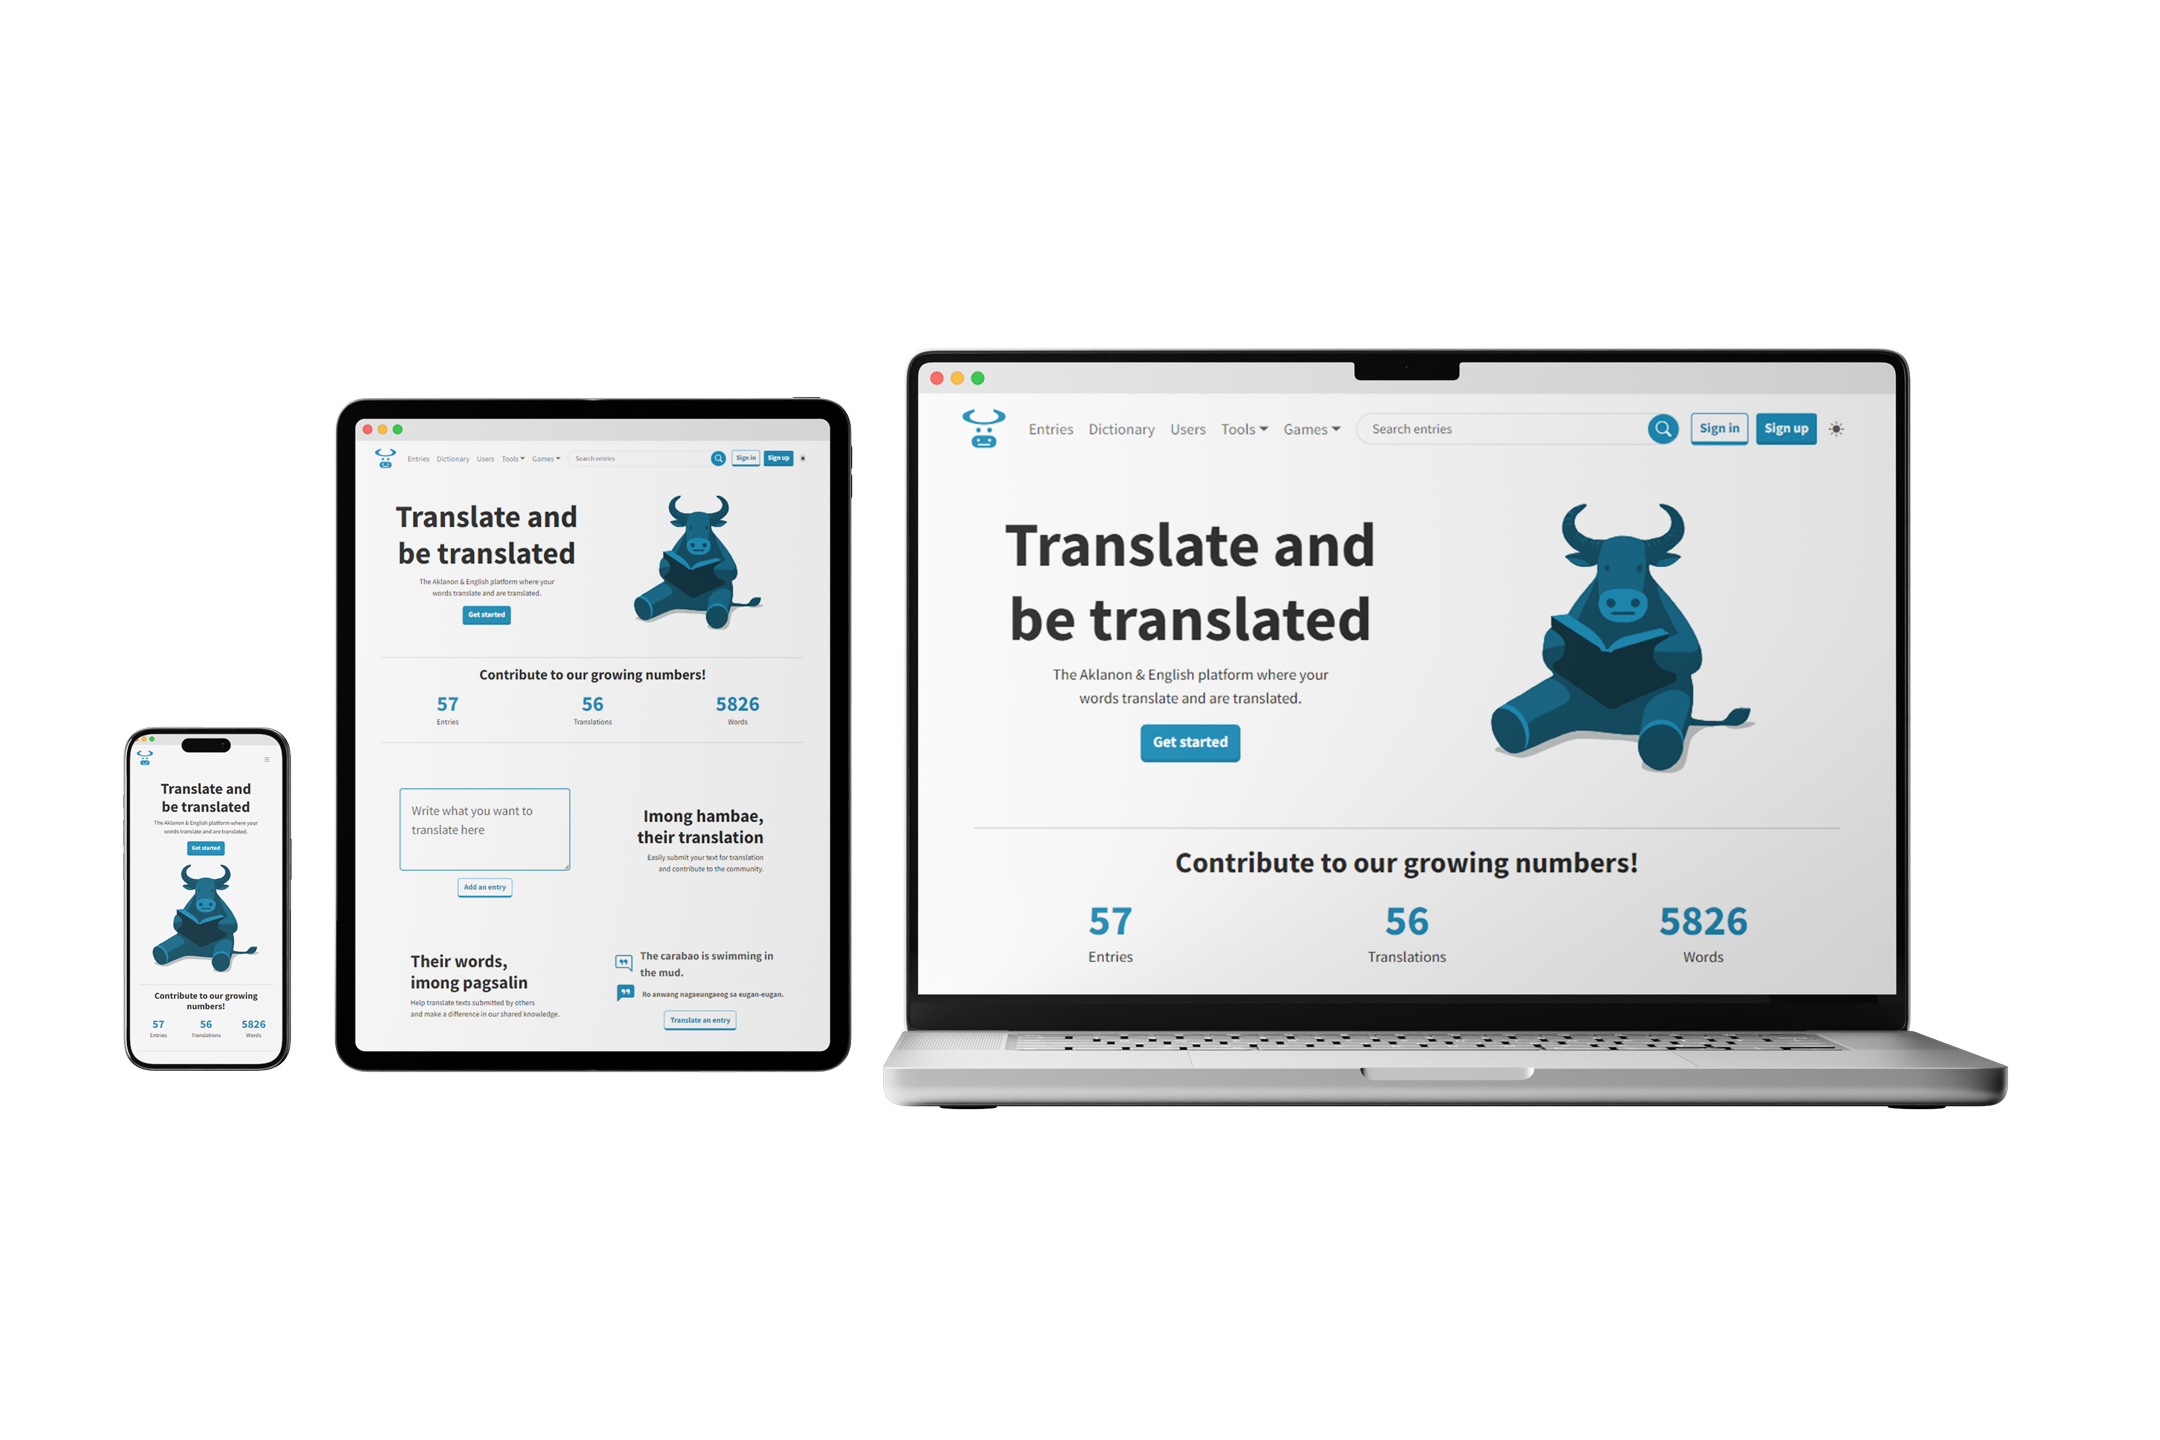
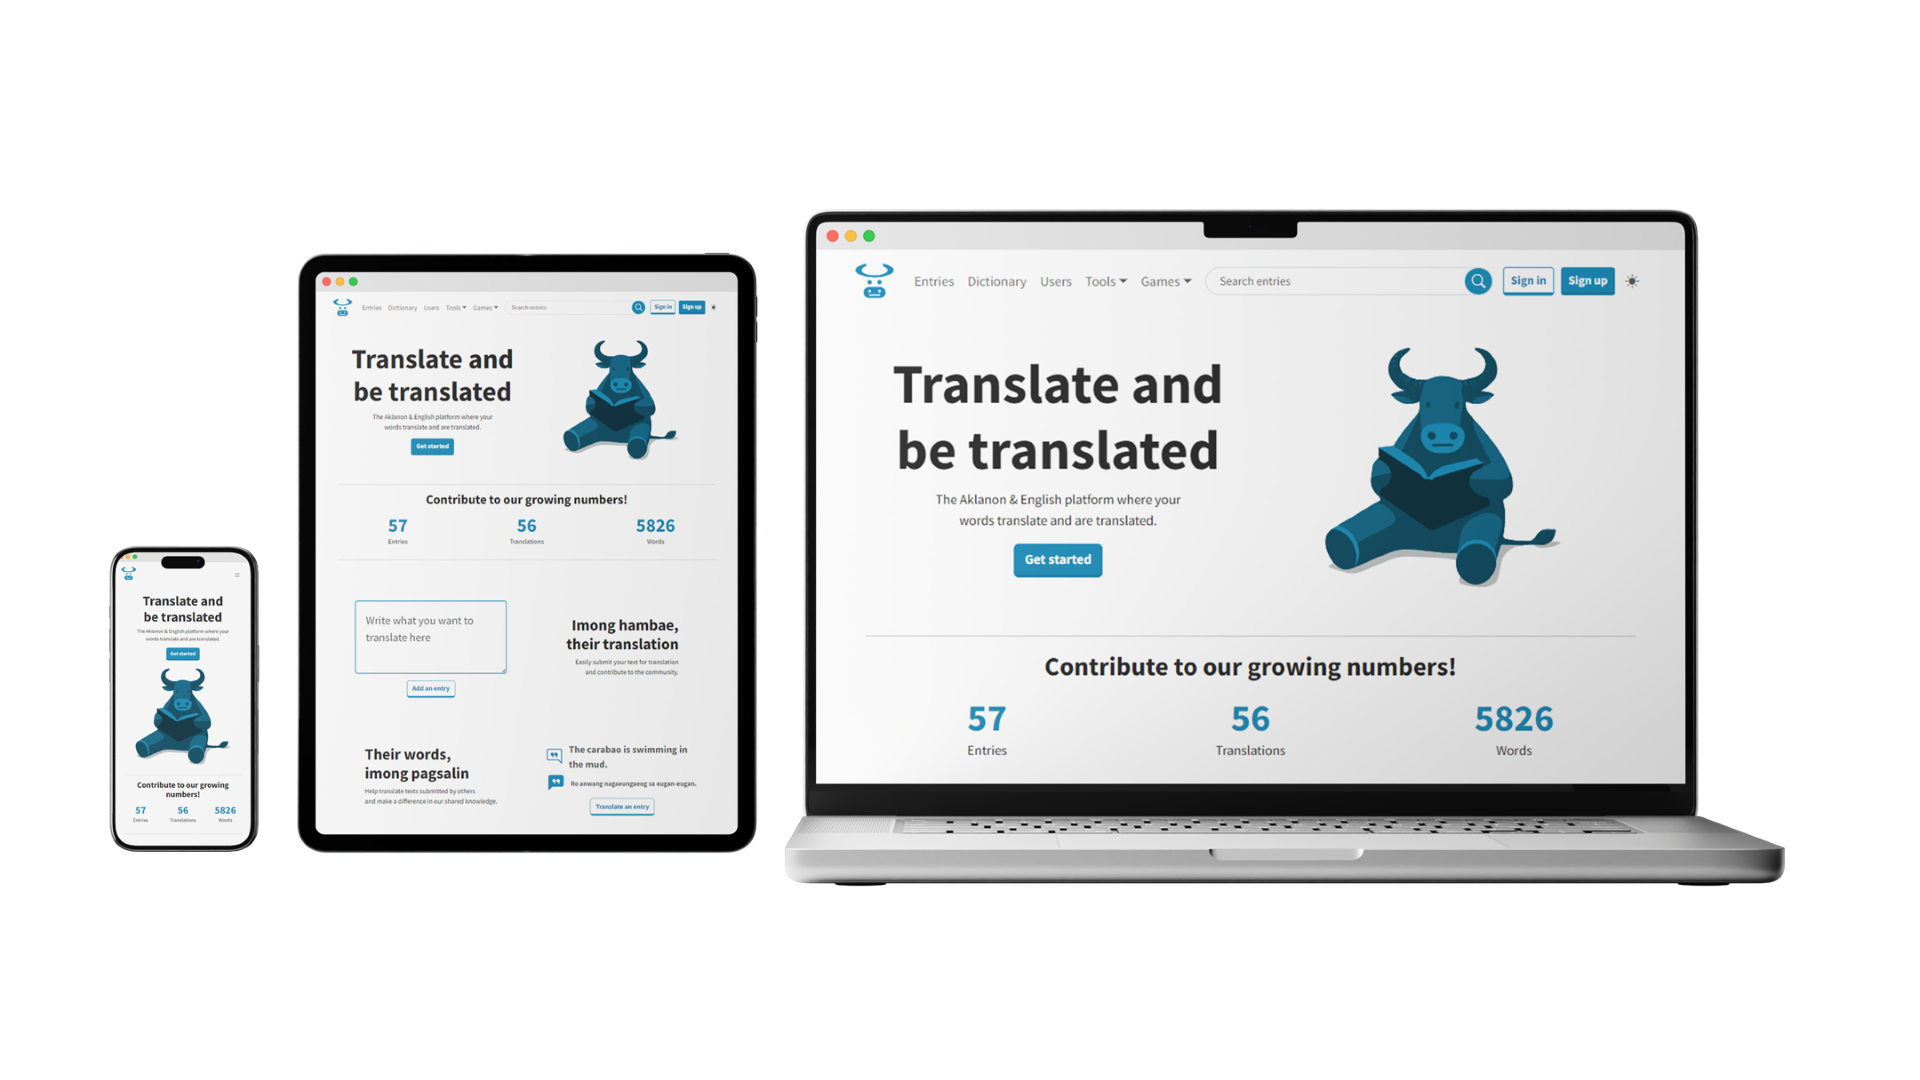
Update project and post cards

diff --git a/src/content.config.ts b/src/content.config.ts
@@ -8,27 +8,31 @@ const tagEnum = z.enum(Object.keys(tags) as [string, ...string[]]);
 
 const projects = defineCollection({
   loader: glob({ pattern: "**/*.{md,mdx}", base: "./src/content/projects" }),
-  schema: z.object({
-    title: z.string(),
-    description: z.string(),
-    startDate: z.coerce.date(),
-    endDate: z.coerce.date().optional(),
-    draft: z.boolean().optional(),
-    demoURL: z.string().optional(),
-    repoURL: z.string().optional(),
-    skills: z.array(skillEnum).optional(),
-  }),
+  schema: ({ image }) =>
+    z.object({
+      title: z.string(),
+      description: z.string(),
+      startDate: z.coerce.date(),
+      endDate: z.coerce.date().optional(),
+      draft: z.boolean().optional(),
+      demoURL: z.string().optional(),
+      repoURL: z.string().optional(),
+      skills: z.array(skillEnum).optional(),
+      image: image().optional(),
+    }),
 });
 
 const blog = defineCollection({
   loader: glob({ pattern: "**/*.{md,mdx}", base: "./src/content/blog" }),
-  schema: z.object({
-    title: z.string(),
-    description: z.string(),
-    date: z.coerce.date(),
-    draft: z.boolean().optional(),
-    tags: z.array(tagEnum).optional(),
-  }),
+  schema: ({ image }) =>
+    z.object({
+      title: z.string(),
+      description: z.string(),
+      date: z.coerce.date(),
+      draft: z.boolean().optional(),
+      tags: z.array(tagEnum).optional(),
+      image: image().optional(),
+    }),
 });
 
 const cv = defineCollection({

diff --git a/src/consts.ts b/src/consts.ts
@@ -4,7 +4,7 @@ export const SITE: Site = {
   TITLE: "Andrian Lloyd Maagma",
   DESCRIPTION: "This is Andrian Lloyd Maagma's personal website.",
   EMAIL: "maagmaandrian@gmail.com",
-  NUM_PROJECTS_ON_HOMEPAGE: 3,
+  NUM_PROJECTS_ON_HOMEPAGE: 4,
   NUM_POSTS_ON_HOMEPAGE: 3,
   NUM_SKILLS_ON_HOMEPAGE: 10,
   NUM_TAGS_ON_HOMEPAGE: 10,
